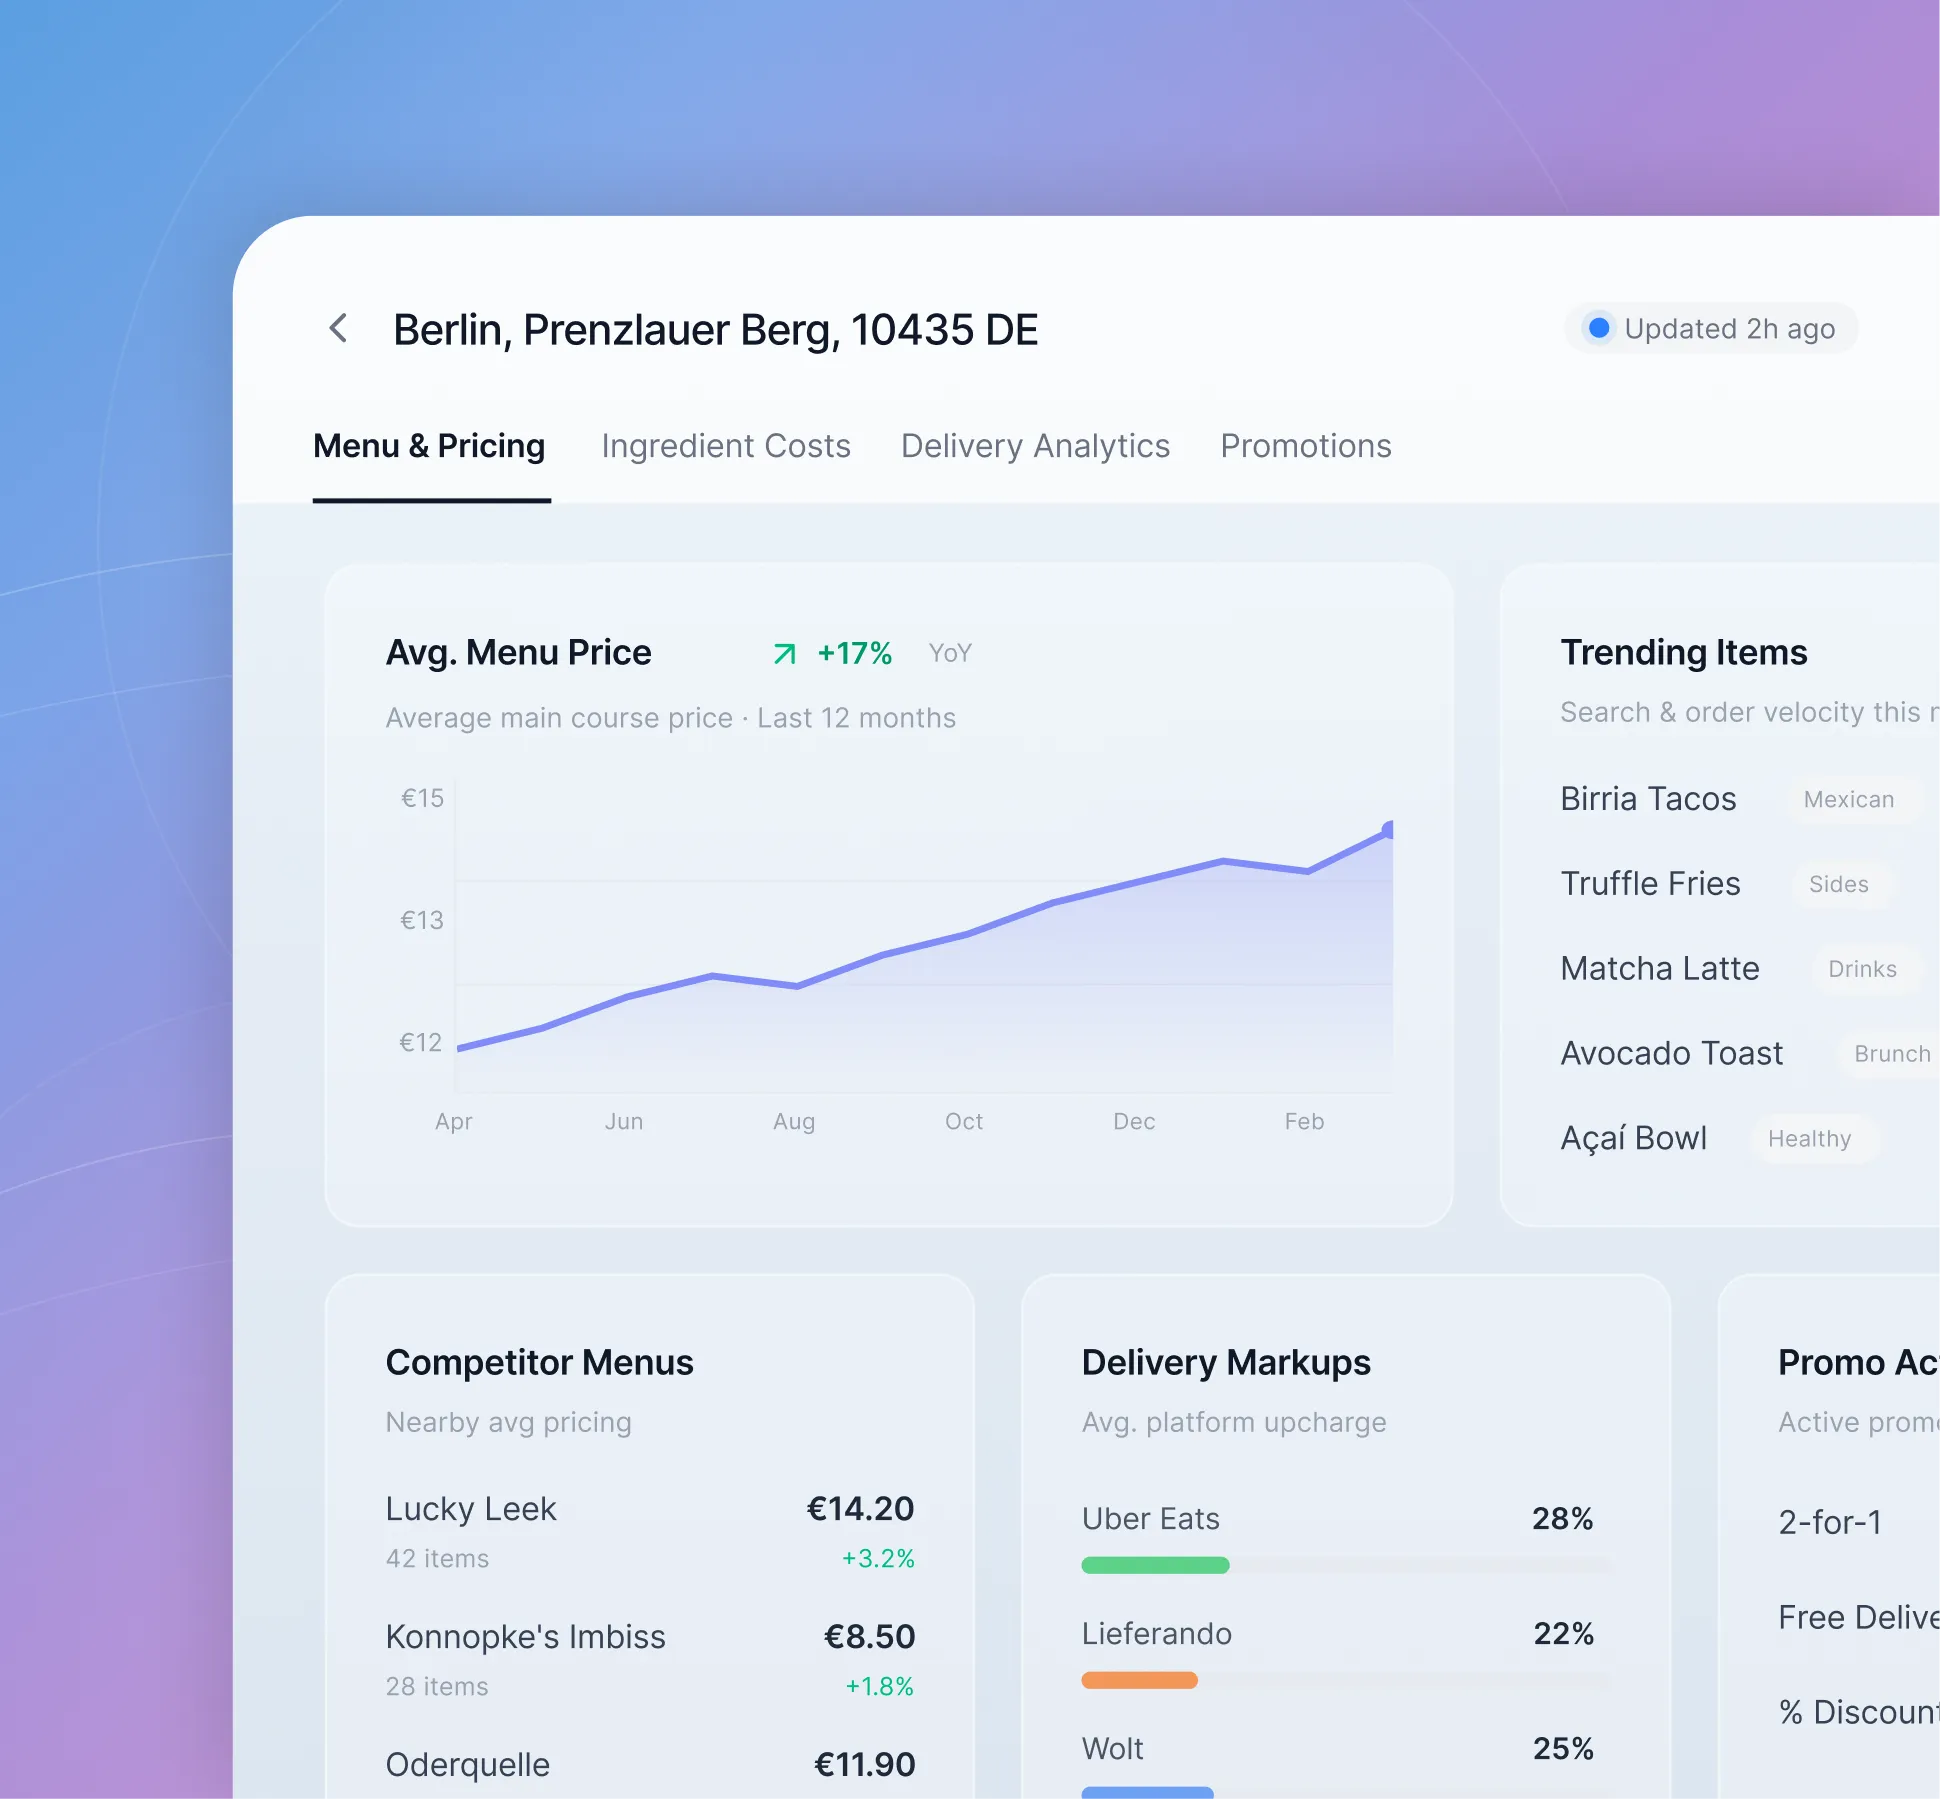
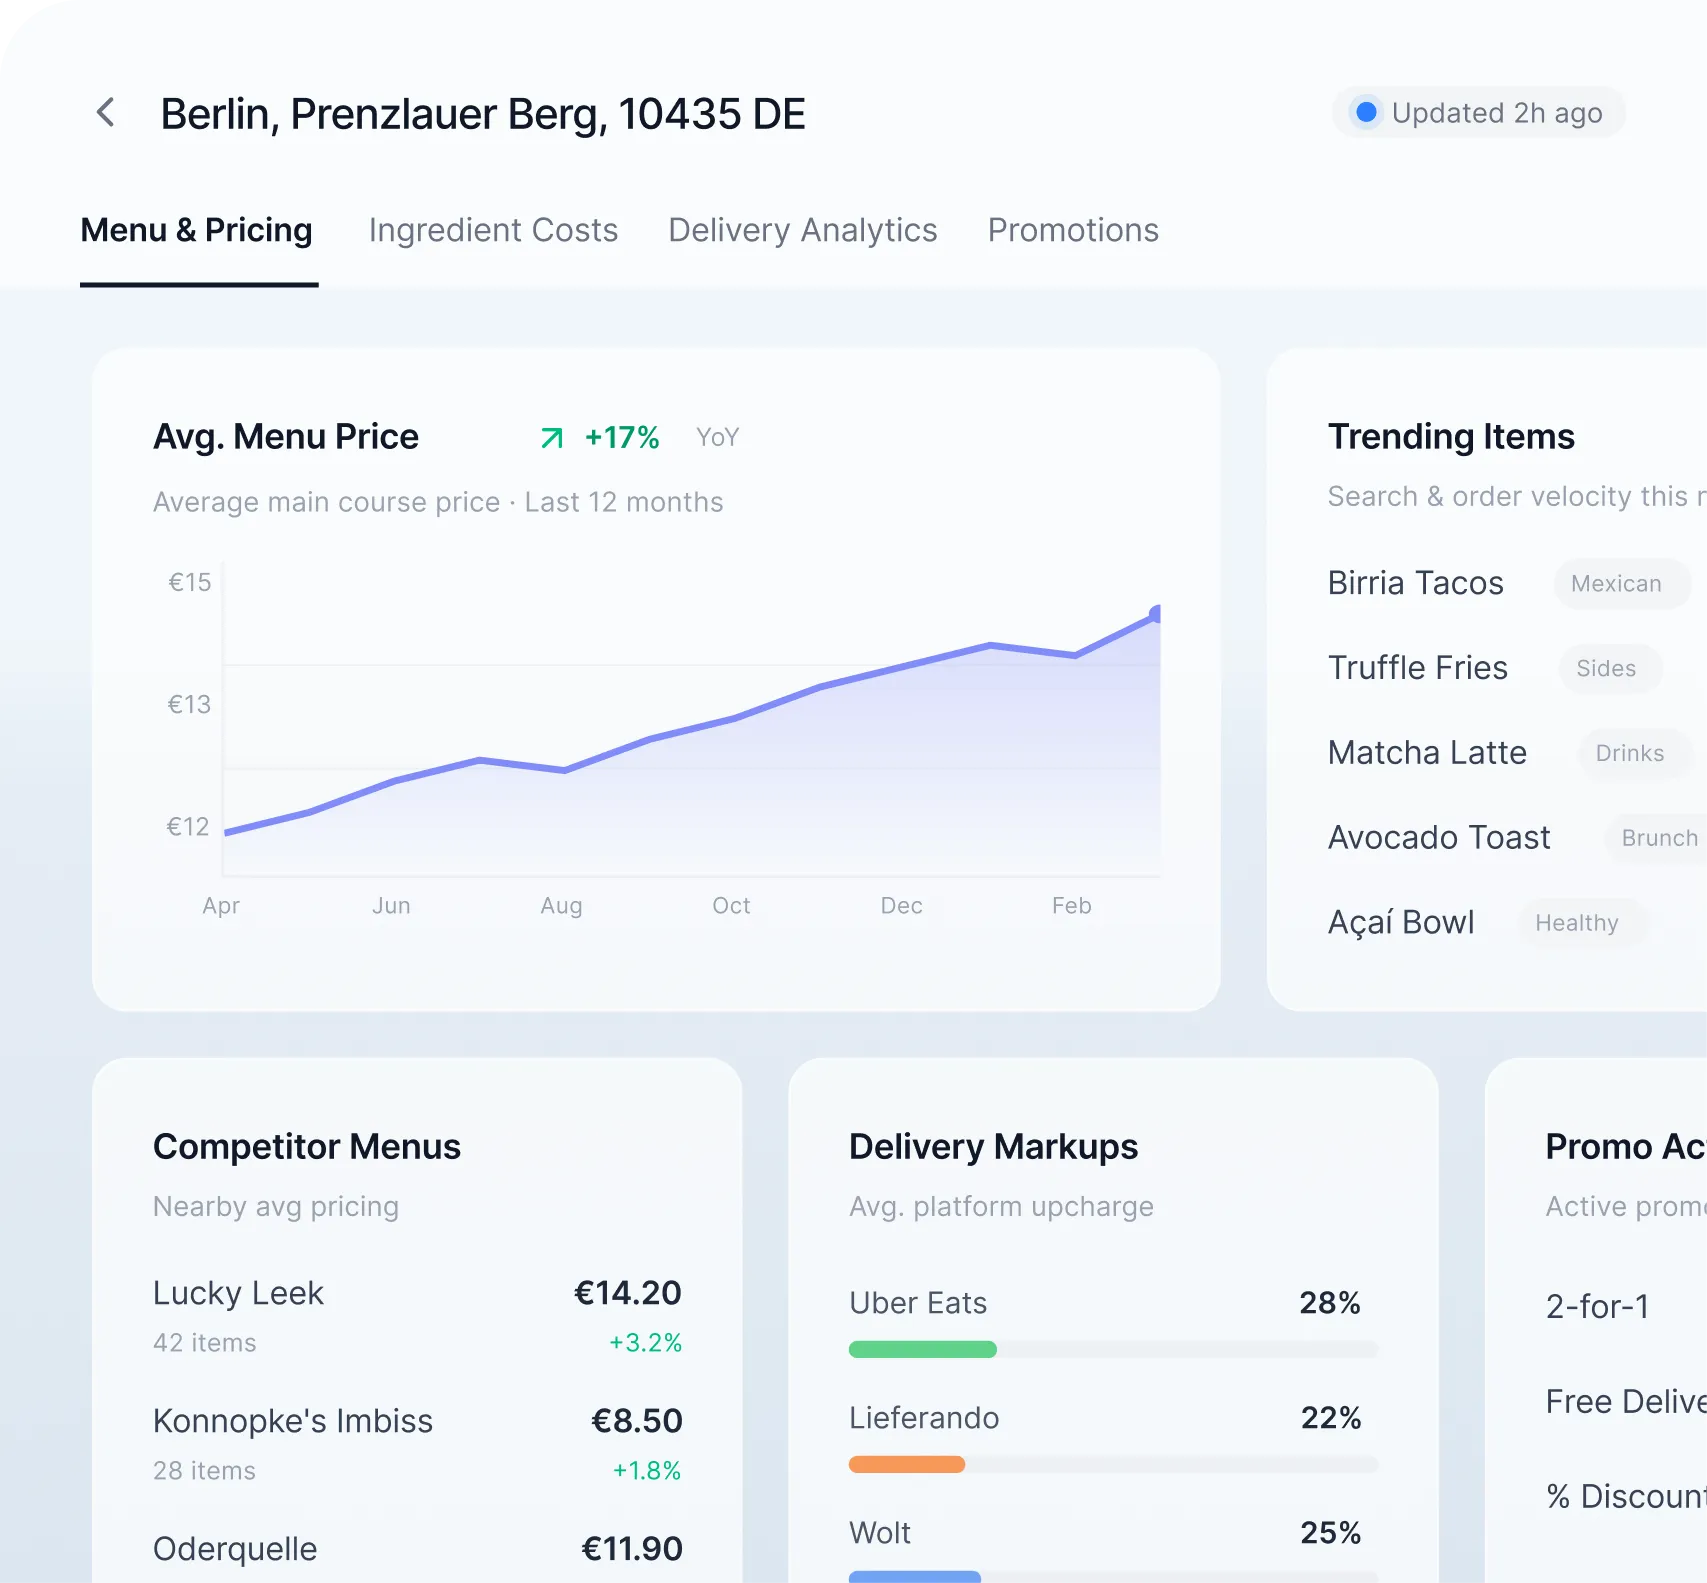
Layer container screenshots over fixed gradient background
Use separate bcg.webp as fixed background with container screenshots
positioned bottom-right at 85% width. Smoother crossfade transitions
since only the container content changes while background stays static.

diff --git a/src/lib/components/Platform.svelte b/src/lib/components/Platform.svelte
@@ -210,21 +210,21 @@
 			<div class="hidden lg:block relative aspect-[1940/1799] rounded-2xl overflow-hidden">
 				<img src="/bcg.webp" alt="" class="absolute inset-0 w-full h-full rounded-2xl" />
 				{#key activeIndex}
-				<div class="absolute inset-0" in:fade={{ duration: 400, delay: 100 }} out:fade={{ duration: 300 }}>
+				<div class="absolute bottom-0 right-0 w-[85%]" in:fade={{ duration: 400, delay: 100 }} out:fade={{ duration: 300 }}>
 				{#if activeIndex === 0}
-					<img src="/landscape.webp" alt="Market Landscape" class="w-full h-full" />
+					<img src="/landscape.webp" alt="Market Landscape" class="w-full" />
 				{:else if activeIndex === 1}
-					<img src="/menu.webp" alt="Menu & Pricing" class="w-full h-full" />
+					<img src="/menu.webp" alt="Menu & Pricing" class="w-full" />
 				{:else if activeIndex === 2}
-					<img src="/revenue.webp" alt="Revenue & Sales" class="w-full h-full" />
+					<img src="/revenue.webp" alt="Revenue & Sales" class="w-full" />
 				{:else if activeIndex === 3}
-					<img src="/marketing.webp" alt="Marketing & Digital" class="w-full h-full" />
+					<img src="/marketing.webp" alt="Marketing & Digital" class="w-full" />
 				{:else if activeIndex === 4}
-					<img src="/guest.webp" alt="Guest Intelligence" class="w-full h-full" />
+					<img src="/guest.webp" alt="Guest Intelligence" class="w-full" />
 				{:else if activeIndex === 5}
-					<img src="/location.webp" alt="Location & Foot Traffic" class="w-full h-full" />
+					<img src="/location.webp" alt="Location & Foot Traffic" class="w-full" />
 				{:else if activeIndex === 6}
-					<img src="/ops.webp" alt="Operations" class="w-full h-full" />
+					<img src="/ops.webp" alt="Operations" class="w-full" />
 				{/if}
 				</div>
 				{/key}
